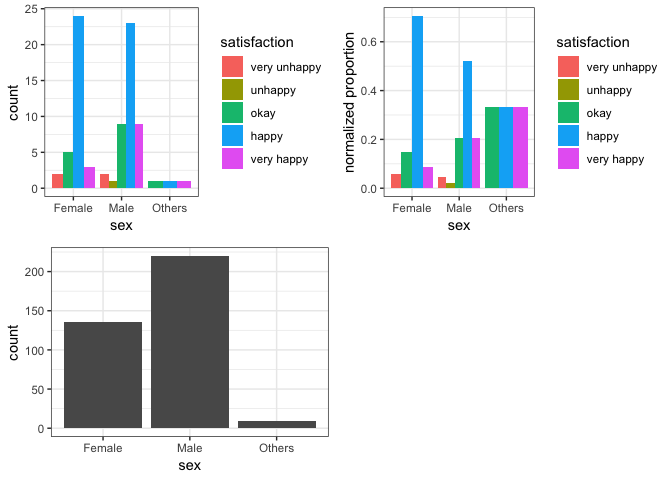
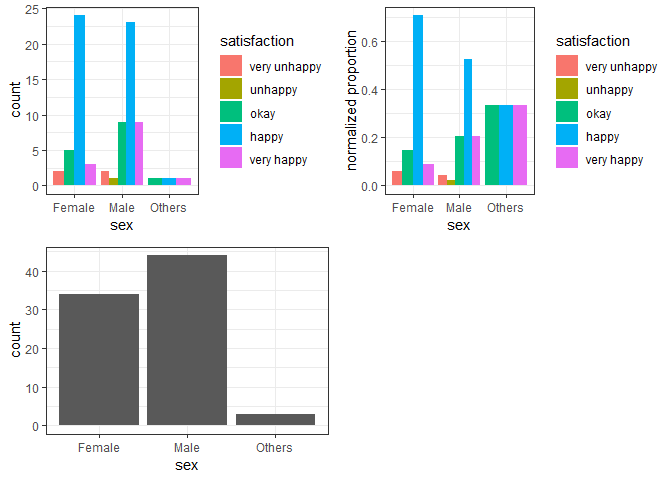
added EDA, interpretations and data cleaning

diff --git a/Milestone_2/Milestone_2_EDA.md b/Milestone_2/Milestone_2_EDA.md
@@ -23,7 +23,34 @@ the EDA:
 function design are not included in this report considering the report
 length. They can be accessed [here](Milestone_2_EDA.Rmd))
 
-### Predictor: Sex
+### Summary Table
+
+``` r
+dimensions <- data %>% dim
+cat(sprintf("Observations: %d\nFeatures: %d", dimensions[1], dimensions[2]))
+```
+
+    ## Observations: 81
+    ## Features: 7
+
+``` r
+data %>% summary()
+```
+
+    ##      sex        age           satisfaction primary_language
+    ##  Female:34   21-25:36   very unhappy: 4    English:56      
+    ##  Male  :44   26-30:31   unhappy     : 1    Other  :25      
+    ##  Others: 3   31-35: 7   okay        :15                    
+    ##              35+  : 7   happy       :48                    
+    ##                         very happy  :13                    
+    ##   level_education  STEM    Years_off_school
+    ##  Bachelors:64     No :15   0-2 :34         
+    ##  Masters+ :17     Yes:66   3-5 :30         
+    ##                            5-10:11         
+    ##                            10+ : 6         
+    ## 
+
+## Sex
 
 ``` r
 Visualization(data, "sex")
@@ -31,11 +58,14 @@ Visualization(data, "sex")
 
     ## Joining, by = "predictor"
 
-![](Milestone_2_EDA_files/figure-gfm/unnamed-chunk-2-1.png)<!-- -->
+![](Milestone_2_EDA_files/figure-gfm/unnamed-chunk-3-1.png)<!-- -->
 
-**Interpretation**:
+**Interpretation**: There does not seem to be much difference in program
+satisfaction between sexes. If a generalization had to be made, the vast
+majority of females in the class are happy with the program while male
+reponses are more varied.
 
-## Predictor: Age
+## Age
 
 ``` r
 Visualization(data, "age")
@@ -43,6 +73,58 @@ Visualization(data, "age")
 
     ## Joining, by = "predictor"
 
-![](Milestone_2_EDA_files/figure-gfm/unnamed-chunk-3-1.png)<!-- -->
+![](Milestone_2_EDA_files/figure-gfm/unnamed-chunk-4-1.png)<!-- -->
+
+**Interpretation**: The overall determination grouping by age is that
+all age groups seem to be happy with the program. In particular, those
+over `35+` are very happy with the program.
+
+## Years Away from School
+
+``` r
+Visualization(data, "Years_off_school")
+```
+
+    ## Joining, by = "predictor"
+
+![](Milestone_2_EDA_files/figure-gfm/unnamed-chunk-5-1.png)<!-- -->
+
+**Interpretation**: Satisfaction seems to decrease then increase again.
+
+## Primary Language
+
+``` r
+Visualization(data,'primary_language')
+```
+
+    ## Joining, by = "predictor"
+
+![](Milestone_2_EDA_files/figure-gfm/unnamed-chunk-6-1.png)<!-- -->
+
+**Interpretation**: In this plot, it shows that the number of students
+in MDS whose primary language are English is twice than the number of
+students whose primary language are not English. For students whose
+primary language is English, more than 60% of them feel happy about MDS
+program, and some of them feel very happy and okay, and few of them feel
+very unhappy. For students whose primary language is not English, most
+of them feel happy and okay about MDS program, and few of them feel very
+unhappy and unhappy.
+
+## Level of Education
+
+``` r
+Visualization(data,'level_education')
+```
+
+    ## Joining, by = "predictor"
+
+![](Milestone_2_EDA_files/figure-gfm/unnamed-chunk-7-1.png)<!-- -->
 
 **Interpretation**:
+
+In this plot, 75% students’ education level in MDS program are Bachelors
+and rest of them are Masters or higher. 60% of students of each two
+groups are happy with this program. Some of them are okay and very happy
+about MDS. Few of students whose education level are bachelors are very
+unhappy and few of students whose education level are masters or higher
+are unhappy.
